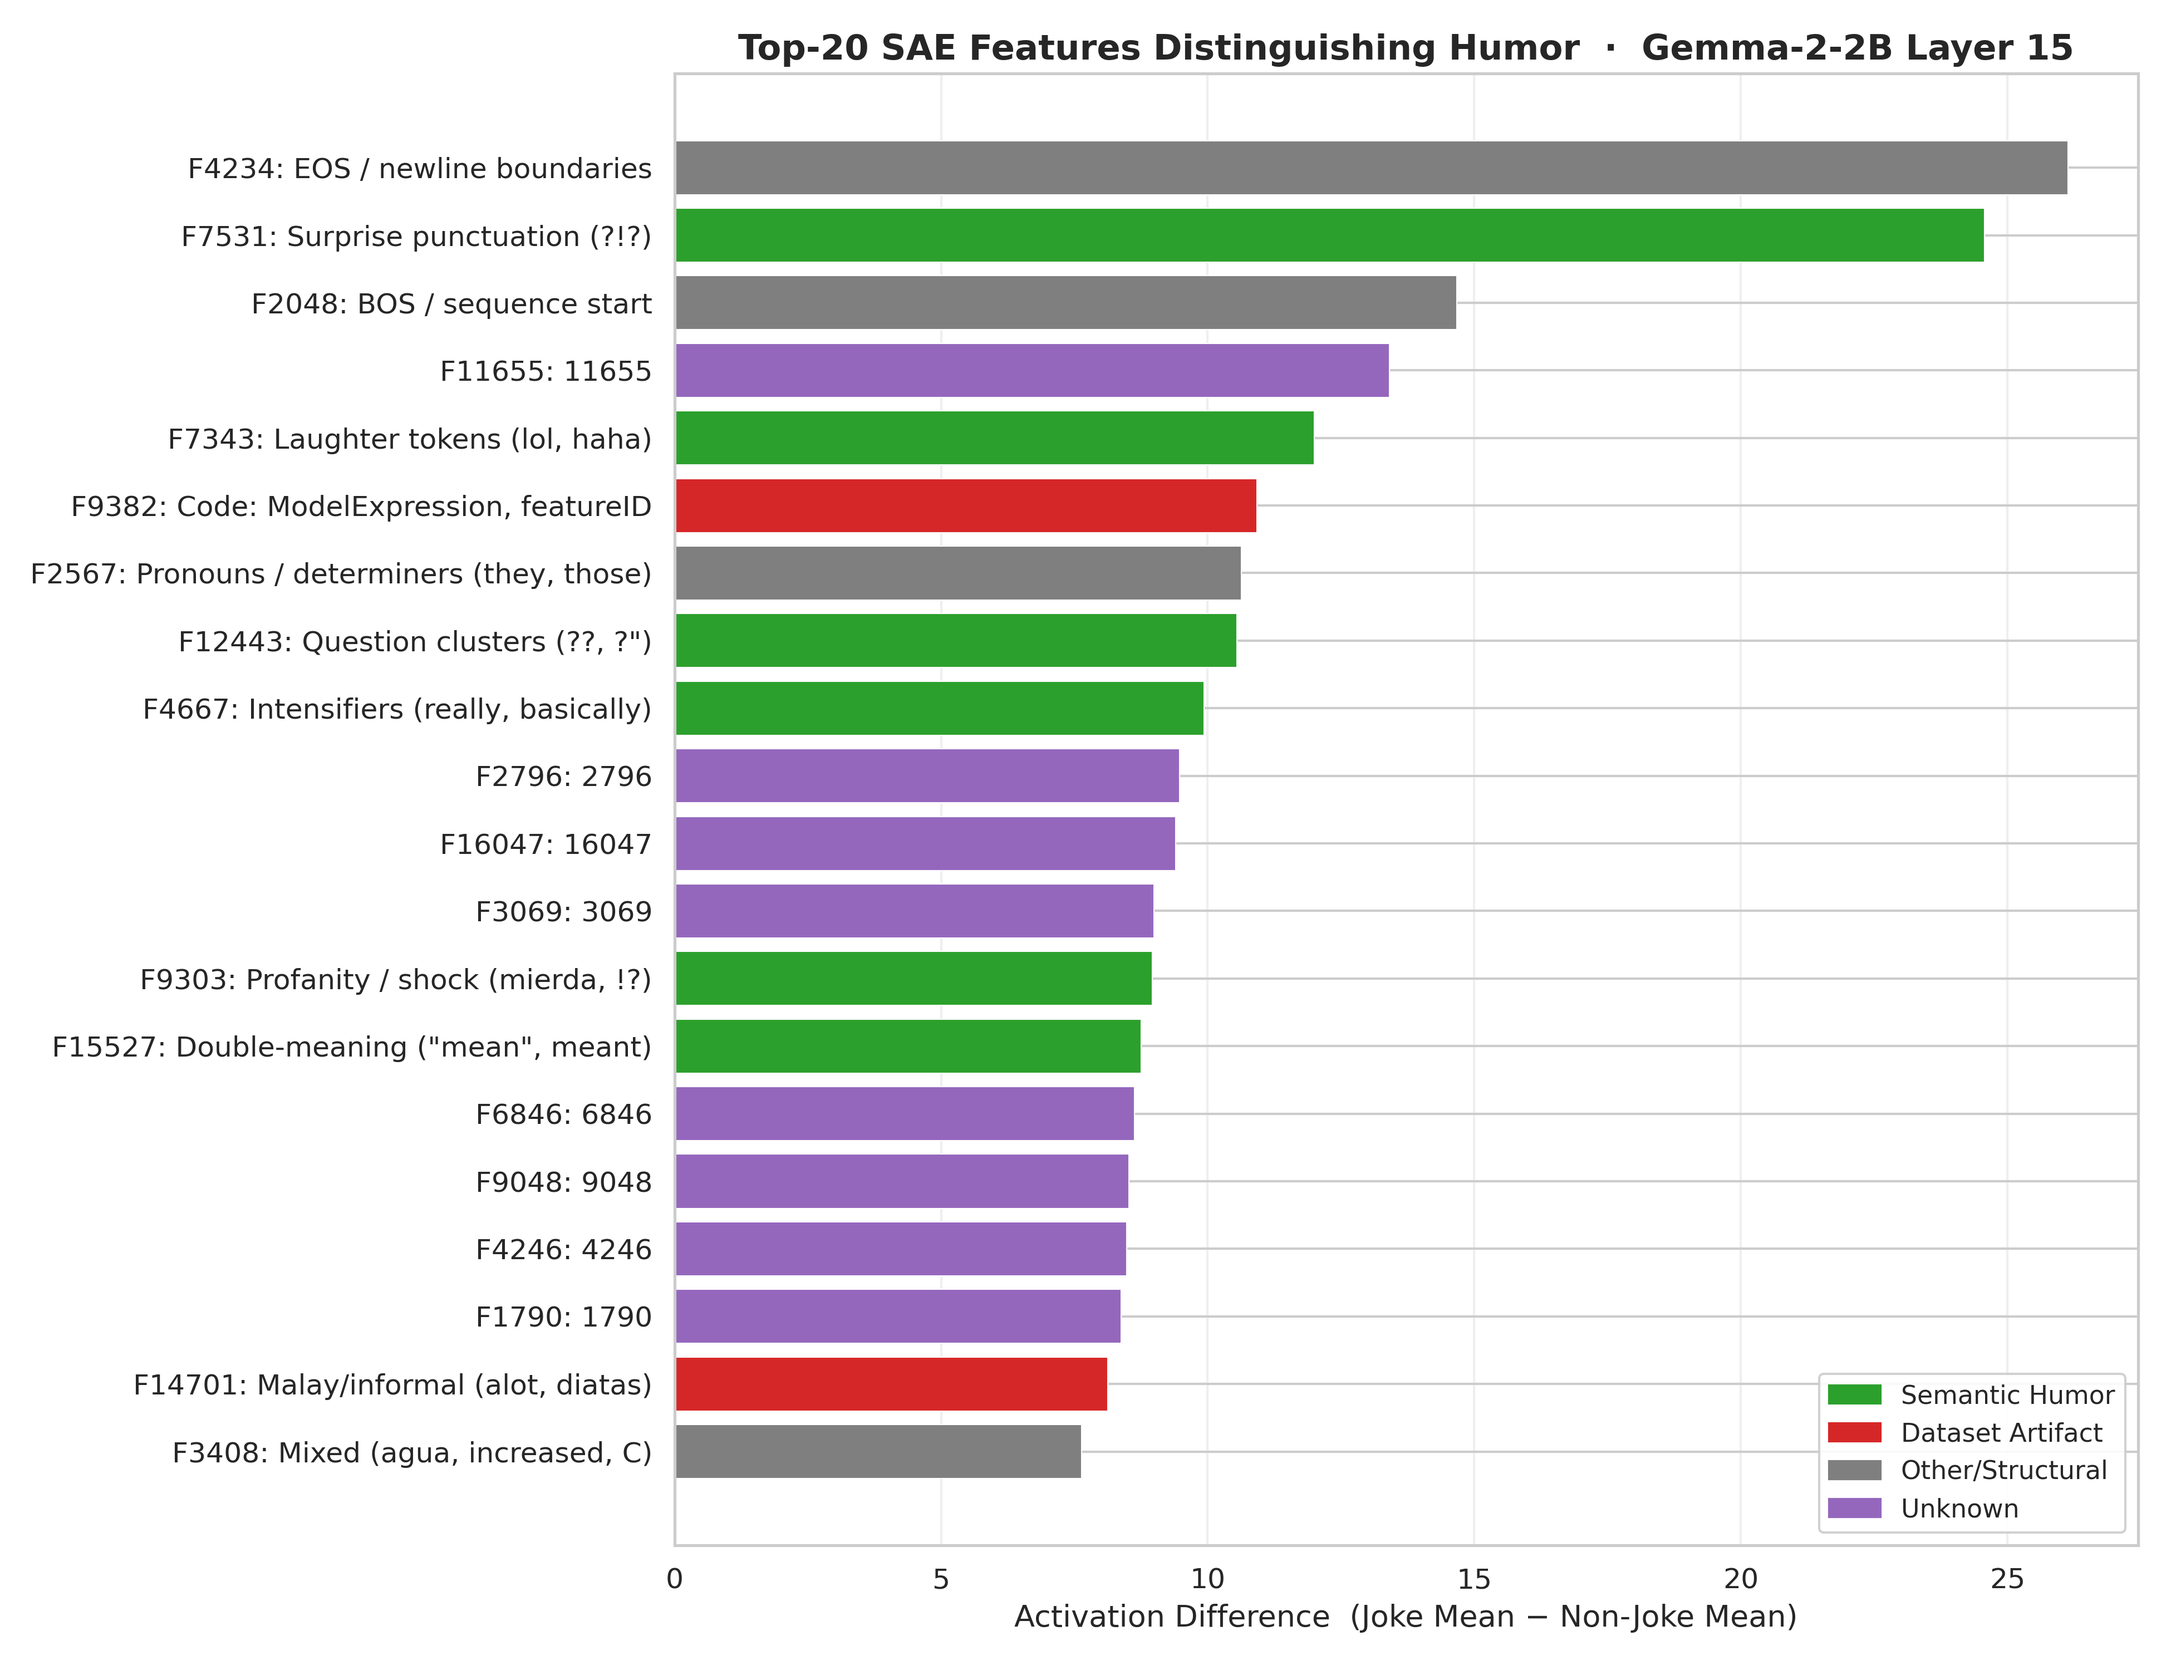
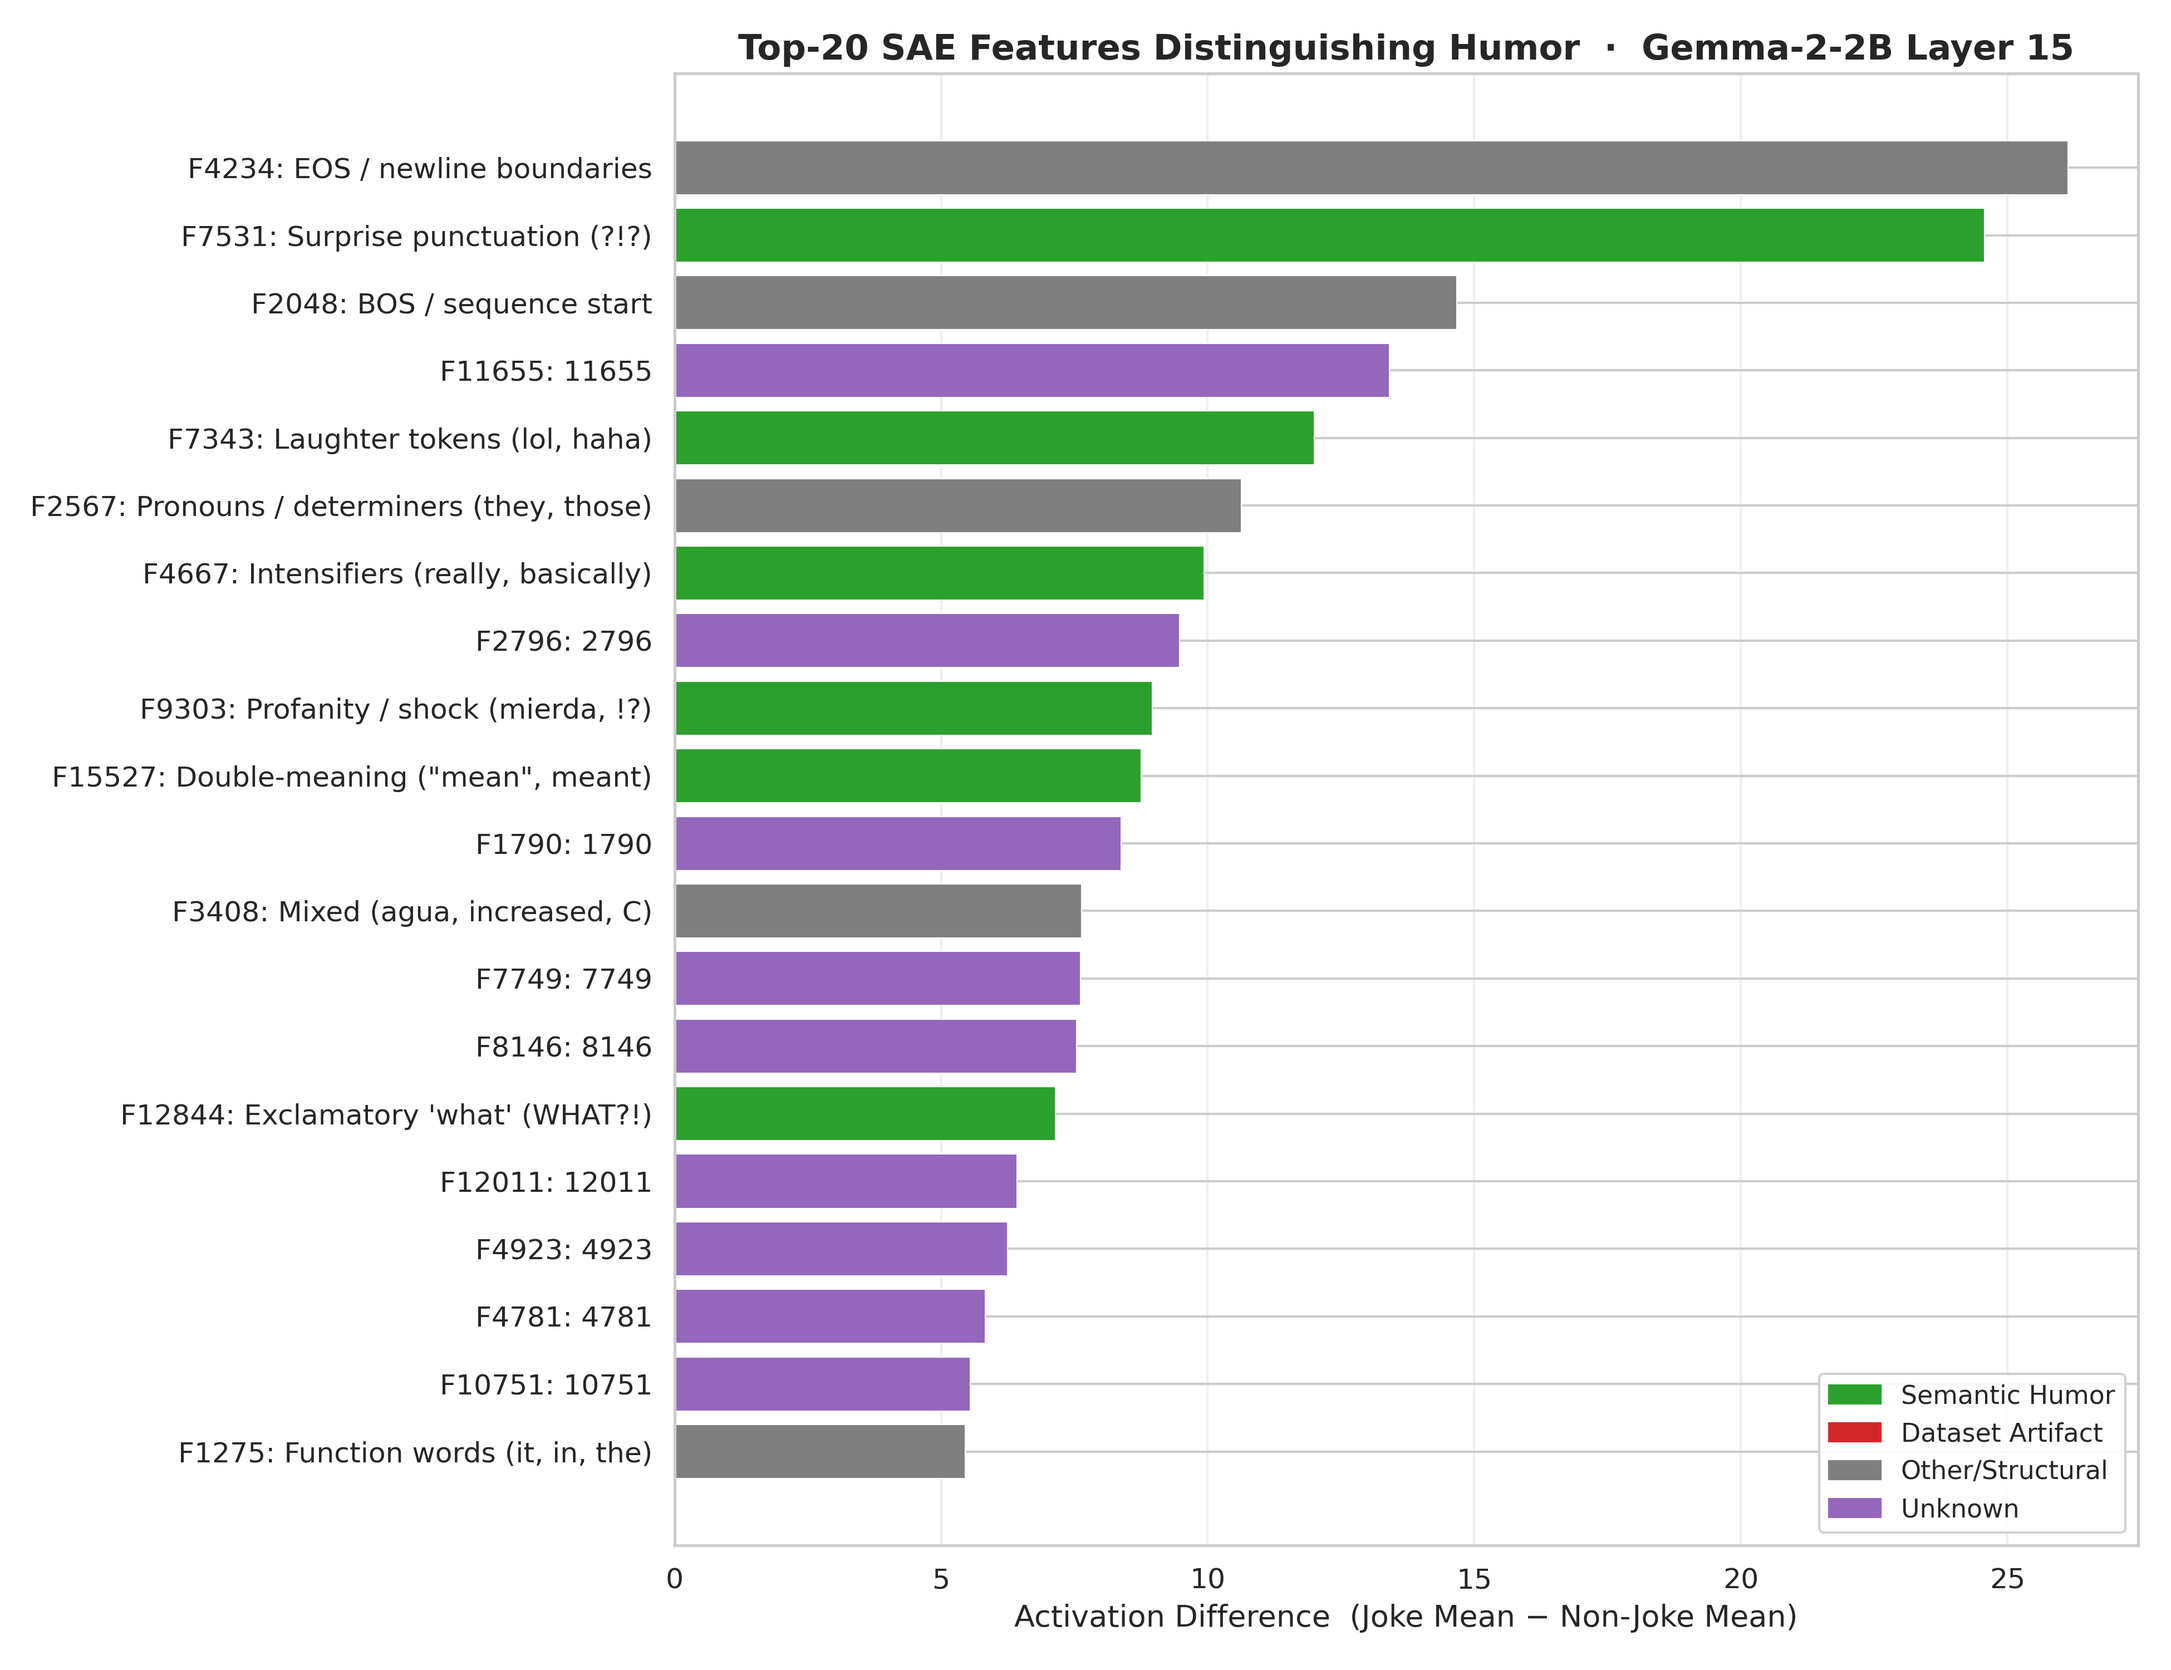
top features fix

Changed region(s): [[0.031, 0.279, 0.5895, 0.899], [0.0931, 0.868, 0.2792, 0.899], [0.031, 0.62, 0.0621, 0.651]]

diff --git a/src/sae_analysis.py b/src/sae_analysis.py
@@ -20,6 +20,7 @@ Architecture notes
 from __future__ import annotations
 
 import json
+import re
 import sys
 import warnings
 from pathlib import Path
@@ -44,6 +45,53 @@ except ImportError:
         "Install with: pip install sae-lens transformer-lens",
         stacklevel=2,
     )
+
+# ---------------------------------------------------------------------------
+# Token-based artifact filter
+# ---------------------------------------------------------------------------
+# The SAE was pretrained on a broad corpus (The Pile / C4 / etc.) and learned
+# features for code, Arabic, Russian, Malay, CJK, and so on.  Some of those
+# features fire differentially on joke vs non-joke splits purely by chance —
+# an incidental corpus-skew correlation, not a humor signal.  We filter them
+# out by inspecting each feature's top decoded tokens BEFORE adding it to the
+# final ranking.
+
+_CODE_RE = re.compile(
+    r'[a-z][A-Z][a-zA-Z]{2,}'                           # camelCase
+    r'|[A-Z]{2,}[a-z][A-Z]'                             # MixedUpper (MigrationBuilder)
+    r'|\b(def|SELECT|FROM|WHERE|INSERT'
+    r'|import|function|var|const|return|printf'
+    r'|cout|endl|class|void|int|str)\b'                  # code keywords
+    r'|[{}\[\]<>]{2,}'                                   # bracket clusters
+    r'|;\s*$',                                            # line-ending semicolons
+    re.MULTILINE,
+)
+
+
+def _is_artifact_feature(top_tokens: List[str]) -> bool:
+    """Return True if this feature should be excluded from results.
+
+    Criteria
+    --------
+    • Any top token contains a non-ASCII character → foreign script
+      (Arabic, Russian, CJK, Malay, etc.)
+    • Any top token matches code-like patterns (camelCase, SQL keywords,
+      bracket clusters, etc.)
+
+    Both checks are intentionally conservative: a single bad token in the
+    top-5 is enough to discard the feature.  We oversample the candidate
+    pool (top-200 by diff) so discarding 30-40% still leaves plenty of
+    clean features to fill the top-20.
+    """
+    for tok in top_tokens:
+        # Non-ASCII → foreign script
+        if any(ord(c) > 127 for c in tok):
+            return True
+        # Code patterns
+        if _CODE_RE.search(tok):
+            return True
+    return False
+
 
 # ---------------------------------------------------------------------------
 # Model / SAE configuration registry
@@ -164,7 +212,9 @@ def get_humor_features(
        residual-stream activations with the SAE, and keep the *max*
        activation per feature across the sequence.
     4. Compute ``mean_joke − mean_non_joke`` per feature.
-    5. Report the top-20 features plus a logit-lens interpretation.
+    5. Oversample top-200 by diff, decode top tokens for each, filter out
+       artifact features (code / foreign script), keep top-20 clean ones.
+    6. Save results + logit-lens interpretation.
 
     Parameters
     ----------
@@ -189,19 +239,19 @@ def get_humor_features(
     print(f"[data] Loading CreativeLang/ColBERT_Humor_Detection from HuggingFace ...")
     try:
         from datasets import load_dataset
-        
+
         dataset = load_dataset("CreativeLang/ColBERT_Humor_Detection")
         data = dataset['train']
-        
+
         # Filter jokes (humor=True) and non-jokes (humor=False)
         jokes = [item['text'] for item in data if item['humor'] == True][:1000]
         non_jokes = [item['text'] for item in data if item['humor'] == False][:1000]
-        
+
         print(f"[data] {len(jokes)} jokes  vs  {len(non_jokes)} non-jokes")
-        
+
         if len(jokes) == 0 or len(non_jokes) == 0:
             raise ValueError(f"Not enough data! jokes={len(jokes)}, non_jokes={len(non_jokes)}")
-            
+
     except Exception as exc:
         raise RuntimeError(f"Cannot load HuggingFace dataset: {exc}") from exc
 
@@ -242,22 +292,30 @@ def get_humor_features(
     mean_nonjoke = nonjoke_acts.float().mean(dim=0)
     diff = mean_joke - mean_nonjoke
 
+    # Oversample: pull top-200 by diff score, then filter artifacts below.
+    # This ensures we always have enough candidates to fill top-20 even if
+    # 50%+ are SAE pretraining artifacts (code, foreign script features).
     top_k = 20
-    top_vals, top_idxs = torch.topk(diff, top_k)
+    oversample_k = 200
+    top_vals_all, top_idxs_all = torch.topk(diff, oversample_k)
 
-    # ── 5. Logit-lens interpretation ──────────────────────────────────
+    # ── 5. Logit-lens interpretation + artifact filtering ─────────────
     W_U = model.W_U  # (d_model, vocab)
     results: List[Dict[str, Any]] = []
+    skipped = 0
 
     print(f"\n{'─'*60}")
-    print(f"  Top-{top_k} humor features  ({model_alias})")
+    print(f"  Top-{top_k} humor features (artifact-filtered)  ({model_alias})")
     print(f"{'─'*60}")
 
-    for rank, (idx_t, val_t) in enumerate(zip(top_idxs, top_vals)):
+    for idx_t, val_t in zip(top_idxs_all, top_vals_all):
+        if len(results) >= top_k:
+            break
+
         idx = idx_t.item()
         score = val_t.item()
 
-        # Decoder direction → logit space
+        # Decode top tokens first — we need them for the artifact check
         feat_dir = sae.W_dec[idx]
         if feat_dir.dtype != W_U.dtype:
             feat_dir = feat_dir.to(W_U.dtype)
@@ -266,13 +324,24 @@ def get_humor_features(
         top_token_ids = torch.topk(logits, 5).indices
         top_tokens = model.to_string(top_token_ids)
 
+        # Discard features whose top tokens look like code or foreign script.
+        # These are SAE pretraining artifacts, not humor signals.
+        if _is_artifact_feature(top_tokens):
+            skipped += 1
+            print(
+                f"  [skip] Feature {idx:5d}  Δ={score:+.4f}  "
+                f"artifact tokens: {top_tokens}"
+            )
+            continue
+
+        rank = len(results) + 1
         print(
-            f"  #{rank+1:2d}  Feature {idx:5d}  "
+            f"  #{rank:2d}  Feature {idx:5d}  "
             f"Δ={score:+.4f}  "
             f"tokens: {top_tokens}"
         )
         results.append({
-            "rank": rank + 1,
+            "rank": rank,
             "feature_idx": idx,
             "diff": round(score, 6),
             "top_tokens": top_tokens,
@@ -280,7 +349,17 @@ def get_humor_features(
             "nonjoke_mean": round(mean_nonjoke[idx].item(), 6),
         })
 
+    print(f"\n  Kept {len(results)} features, skipped {skipped} artifacts "
+          f"(out of top-{oversample_k} by diff)")
     print(f"{'─'*60}\n")
+
+    if len(results) < top_k:
+        warnings.warn(
+            f"Only found {len(results)} clean features after filtering "
+            f"{skipped} artifacts from the top-{oversample_k} candidates. "
+            "Consider increasing oversample_k or loosening _is_artifact_feature.",
+            stacklevel=2,
+        )
 
     # ── 6. Save ───────────────────────────────────────────────────────
     out_path = save_dir / f"{model_alias}_sae_features.json"
